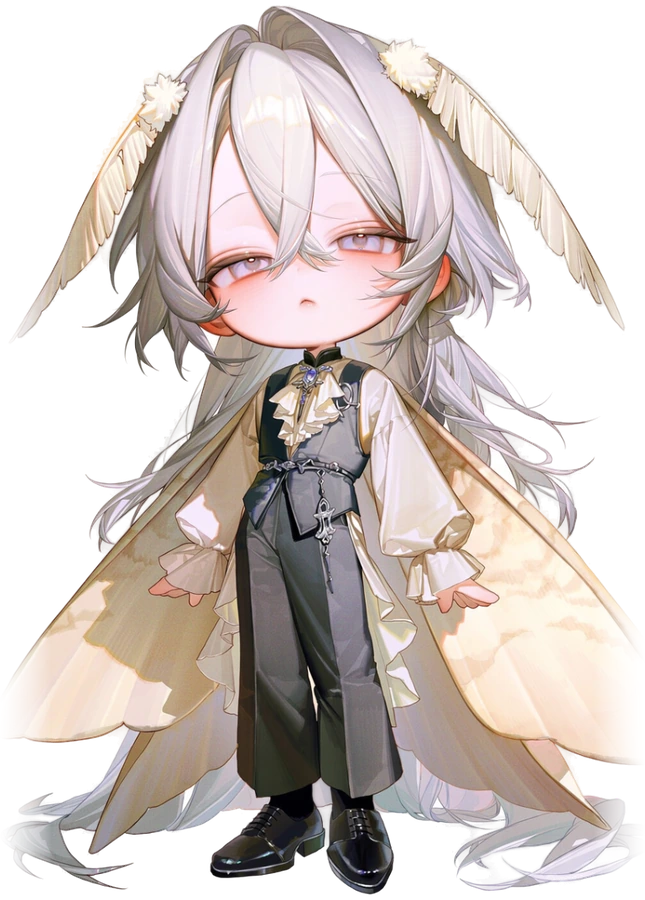
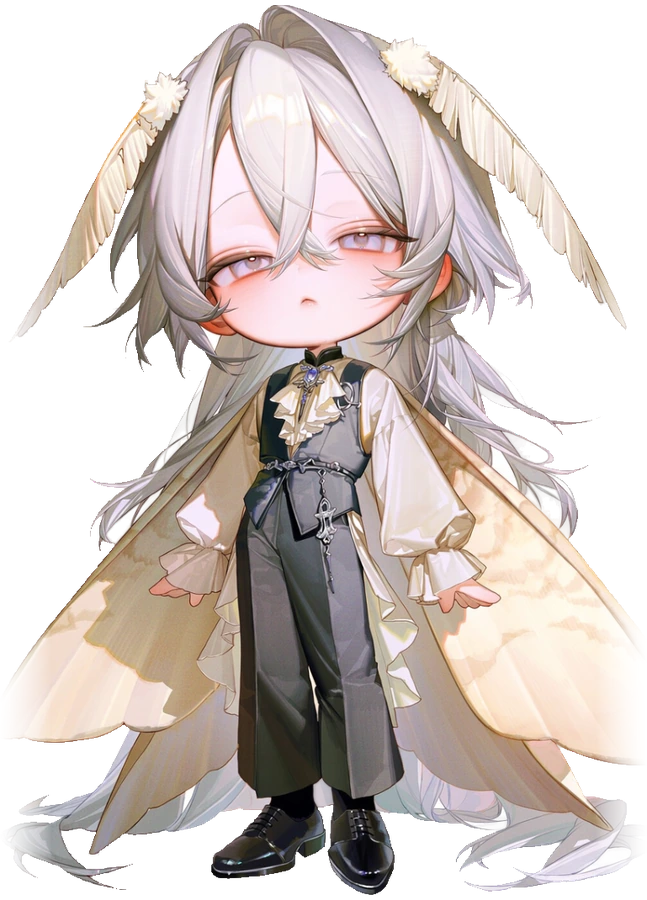
Cleaner chibi cutouts (bg pockets, floor haze, fringe) and replace Morel chibi
- chibis-matted: re-export all 23; remove white pockets/floor shadow, defringe, softer source-cut edges
- Morel: new full-body chibi (original kept as chibi-originals/모렐_치비_새버전.png)
- chibi-data: ratios/size for Morel, cache-busting query

Claude-Session: https://claude.ai/code/session_01YYQsjKpVmJi6CVRMp1nxBQ

diff --git a/js/world/chibi-data.js b/js/world/chibi-data.js
@@ -5,27 +5,27 @@
 //   mobileX / mobileGround / mobileHeight : 모바일 값
 //   foot    : 그림 맨 아래에서 발바닥까지의 높이(%)       shadow : 발밑 그림자 너비(%)
 export const chibiResidents = {
-  "edelin": {"src": "./assets/characters/chibis-matted/edelin.webp", "ratio": 0.712, "x": 66, "ground": 80, "height": 46, "mobileX": 58, "mobileGround": 82, "mobileHeight": 36, "foot": 3, "shadow": 56},
-  "rowen": {"src": "./assets/characters/chibis-matted/rowen.webp", "ratio": 0.594, "x": 62, "ground": 81, "height": 46, "mobileX": 56, "mobileGround": 82, "mobileHeight": 36, "foot": 3, "shadow": 56},
-  "luciel": {"src": "./assets/characters/chibis-matted/luciel.webp", "ratio": 0.757, "x": 66, "ground": 80, "height": 46, "mobileX": 58, "mobileGround": 82, "mobileHeight": 36, "foot": 3, "shadow": 56},
-  "bianca": {"src": "./assets/characters/chibis-matted/bianca.webp", "ratio": 0.562, "x": 66, "ground": 82, "height": 46, "mobileX": 58, "mobileGround": 82, "mobileHeight": 36, "foot": 3, "shadow": 56},
-  "noah": {"src": "./assets/characters/chibis-matted/noah.webp", "ratio": 0.604, "x": 66, "ground": 81, "height": 46, "mobileX": 58, "mobileGround": 82, "mobileHeight": 36, "foot": 3, "shadow": 56},
-  "mariel": {"src": "./assets/characters/chibis-matted/mariel.webp", "ratio": 0.699, "x": 64, "ground": 82, "height": 46, "mobileX": 58, "mobileGround": 82, "mobileHeight": 36, "foot": 3, "shadow": 56},
-  "isabel": {"src": "./assets/characters/chibis-matted/isabel.webp", "ratio": 0.75, "x": 66, "ground": 80, "height": 46, "mobileX": 58, "mobileGround": 82, "mobileHeight": 36, "foot": 3, "shadow": 56},
-  "theo": {"src": "./assets/characters/chibis-matted/theo.webp", "ratio": 0.644, "x": 65, "ground": 81, "height": 46, "mobileX": 58, "mobileGround": 82, "mobileHeight": 36, "foot": 3, "shadow": 56},
-  "adela": {"src": "./assets/characters/chibis-matted/adela.webp", "ratio": 0.612, "x": 65, "ground": 79, "height": 46, "mobileX": 58, "mobileGround": 82, "mobileHeight": 36, "foot": 3, "shadow": 56},
-  "lillian": {"src": "./assets/characters/chibis-matted/lillian.webp", "ratio": 0.587, "x": 66, "ground": 80, "height": 46, "mobileX": 58, "mobileGround": 82, "mobileHeight": 36, "foot": 3, "shadow": 56},
-  "edwin": {"src": "./assets/characters/chibis-matted/edwin.webp", "ratio": 0.584, "x": 65, "ground": 81, "height": 46, "mobileX": 58, "mobileGround": 82, "mobileHeight": 36, "foot": 3, "shadow": 56},
-  "cordelia": {"src": "./assets/characters/chibis-matted/cordelia.webp", "ratio": 0.646, "x": 64, "ground": 80, "height": 46, "mobileX": 58, "mobileGround": 82, "mobileHeight": 36, "foot": 3, "shadow": 56},
-  "felix": {"src": "./assets/characters/chibis-matted/felix.webp", "ratio": 0.702, "x": 65, "ground": 81, "height": 46, "mobileX": 58, "mobileGround": 82, "mobileHeight": 36, "foot": 3, "shadow": 56},
-  "sarkan": {"src": "./assets/characters/chibis-matted/sarkan.webp", "ratio": 0.723, "x": 62, "ground": 81, "height": 44, "mobileX": 56, "mobileGround": 82, "mobileHeight": 34, "foot": 2, "shadow": 80},
-  "miel": {"src": "./assets/characters/chibis-matted/miel.webp", "ratio": 0.683, "x": 65, "ground": 80, "height": 44, "mobileX": 58, "mobileGround": 82, "mobileHeight": 34, "foot": 3, "shadow": 62},
-  "serepina": {"src": "./assets/characters/chibis-matted/serepina.webp", "ratio": 0.681, "x": 14, "ground": 78, "height": 36, "mobileX": 27, "mobileGround": 56, "mobileHeight": 26, "foot": 3, "shadow": 66},
-  "arachne": {"src": "./assets/characters/chibis-matted/arachne.webp", "ratio": 0.729, "x": 31, "ground": 84, "height": 38, "mobileX": 73, "mobileGround": 56, "mobileHeight": 26, "foot": 3, "shadow": 70},
-  "neri": {"src": "./assets/characters/chibis-matted/neri.webp", "ratio": 0.841, "x": 49, "ground": 78, "height": 34, "mobileX": 23, "mobileGround": 82, "mobileHeight": 26, "foot": 4, "shadow": 66},
-  "morel": {"src": "./assets/characters/chibis-matted/morel.webp", "ratio": 0.68, "x": 66, "ground": 85, "height": 37, "mobileX": 51, "mobileGround": 82, "mobileHeight": 27, "foot": 3, "shadow": 58},
-  "lepion": {"src": "./assets/characters/chibis-matted/lepion.webp", "ratio": 0.722, "x": 85, "ground": 79, "height": 38, "mobileX": 79, "mobileGround": 82, "mobileHeight": 27, "foot": 5, "shadow": 56},
-  "kylen": {"src": "./assets/characters/chibis-matted/kylen.webp", "ratio": 0.649, "x": 25, "ground": 81, "height": 44, "mobileX": 27, "mobileGround": 58, "mobileHeight": 31, "foot": 3, "shadow": 56},
-  "nepia": {"src": "./assets/characters/chibis-matted/nepia.webp", "ratio": 0.772, "x": 54, "ground": 85, "height": 43, "mobileX": 73, "mobileGround": 58, "mobileHeight": 31, "foot": 4, "shadow": 56},
-  "seira": {"src": "./assets/characters/chibis-matted/seira.webp", "ratio": 0.684, "x": 81, "ground": 80, "height": 42, "mobileX": 50, "mobileGround": 88, "mobileHeight": 30, "foot": 0, "shadow": 70},
+  "edelin": {"src": "./assets/characters/chibis-matted/edelin.webp?v=20261104c", "ratio": 0.713, "x": 66, "ground": 80, "height": 46, "mobileX": 58, "mobileGround": 82, "mobileHeight": 36, "foot": 3, "shadow": 56},
+  "rowen": {"src": "./assets/characters/chibis-matted/rowen.webp?v=20261104c", "ratio": 0.594, "x": 62, "ground": 81, "height": 46, "mobileX": 56, "mobileGround": 82, "mobileHeight": 36, "foot": 3, "shadow": 56},
+  "luciel": {"src": "./assets/characters/chibis-matted/luciel.webp?v=20261104c", "ratio": 0.757, "x": 66, "ground": 80, "height": 46, "mobileX": 58, "mobileGround": 82, "mobileHeight": 36, "foot": 3, "shadow": 56},
+  "bianca": {"src": "./assets/characters/chibis-matted/bianca.webp?v=20261104c", "ratio": 0.57, "x": 66, "ground": 82, "height": 46, "mobileX": 58, "mobileGround": 82, "mobileHeight": 36, "foot": 3, "shadow": 56},
+  "noah": {"src": "./assets/characters/chibis-matted/noah.webp?v=20261104c", "ratio": 0.606, "x": 66, "ground": 81, "height": 46, "mobileX": 58, "mobileGround": 82, "mobileHeight": 36, "foot": 3, "shadow": 56},
+  "mariel": {"src": "./assets/characters/chibis-matted/mariel.webp?v=20261104c", "ratio": 0.698, "x": 64, "ground": 82, "height": 46, "mobileX": 58, "mobileGround": 82, "mobileHeight": 36, "foot": 3, "shadow": 56},
+  "isabel": {"src": "./assets/characters/chibis-matted/isabel.webp?v=20261104c", "ratio": 0.75, "x": 66, "ground": 80, "height": 46, "mobileX": 58, "mobileGround": 82, "mobileHeight": 36, "foot": 3, "shadow": 56},
+  "theo": {"src": "./assets/characters/chibis-matted/theo.webp?v=20261104c", "ratio": 0.641, "x": 65, "ground": 81, "height": 46, "mobileX": 58, "mobileGround": 82, "mobileHeight": 36, "foot": 3, "shadow": 56},
+  "adela": {"src": "./assets/characters/chibis-matted/adela.webp?v=20261104c", "ratio": 0.61, "x": 65, "ground": 79, "height": 46, "mobileX": 58, "mobileGround": 82, "mobileHeight": 36, "foot": 3, "shadow": 56},
+  "lillian": {"src": "./assets/characters/chibis-matted/lillian.webp?v=20261104c", "ratio": 0.584, "x": 66, "ground": 80, "height": 46, "mobileX": 58, "mobileGround": 82, "mobileHeight": 36, "foot": 3, "shadow": 56},
+  "edwin": {"src": "./assets/characters/chibis-matted/edwin.webp?v=20261104c", "ratio": 0.584, "x": 65, "ground": 81, "height": 46, "mobileX": 58, "mobileGround": 82, "mobileHeight": 36, "foot": 3, "shadow": 56},
+  "cordelia": {"src": "./assets/characters/chibis-matted/cordelia.webp?v=20261104c", "ratio": 0.646, "x": 64, "ground": 80, "height": 46, "mobileX": 58, "mobileGround": 82, "mobileHeight": 36, "foot": 3, "shadow": 56},
+  "felix": {"src": "./assets/characters/chibis-matted/felix.webp?v=20261104c", "ratio": 0.702, "x": 65, "ground": 81, "height": 46, "mobileX": 58, "mobileGround": 82, "mobileHeight": 36, "foot": 3, "shadow": 56},
+  "sarkan": {"src": "./assets/characters/chibis-matted/sarkan.webp?v=20261104c", "ratio": 0.723, "x": 62, "ground": 81, "height": 44, "mobileX": 56, "mobileGround": 82, "mobileHeight": 34, "foot": 2, "shadow": 80},
+  "miel": {"src": "./assets/characters/chibis-matted/miel.webp?v=20261104c", "ratio": 0.683, "x": 65, "ground": 80, "height": 44, "mobileX": 58, "mobileGround": 82, "mobileHeight": 34, "foot": 3, "shadow": 62},
+  "serepina": {"src": "./assets/characters/chibis-matted/serepina.webp?v=20261104c", "ratio": 0.672, "x": 14, "ground": 78, "height": 36, "mobileX": 27, "mobileGround": 56, "mobileHeight": 26, "foot": 3, "shadow": 66},
+  "arachne": {"src": "./assets/characters/chibis-matted/arachne.webp?v=20261104c", "ratio": 0.724, "x": 31, "ground": 84, "height": 38, "mobileX": 73, "mobileGround": 56, "mobileHeight": 26, "foot": 3, "shadow": 70},
+  "neri": {"src": "./assets/characters/chibis-matted/neri.webp?v=20261104c", "ratio": 0.834, "x": 49, "ground": 78, "height": 34, "mobileX": 23, "mobileGround": 82, "mobileHeight": 26, "foot": 4, "shadow": 66},
+  "morel": {"src": "./assets/characters/chibis-matted/morel.webp?v=20261104c", "ratio": 0.683, "x": 66, "ground": 85, "height": 40, "mobileX": 51, "mobileGround": 82, "mobileHeight": 29, "foot": 3, "shadow": 52},
+  "lepion": {"src": "./assets/characters/chibis-matted/lepion.webp?v=20261104c", "ratio": 0.719, "x": 85, "ground": 79, "height": 38, "mobileX": 79, "mobileGround": 82, "mobileHeight": 27, "foot": 5, "shadow": 56},
+  "kylen": {"src": "./assets/characters/chibis-matted/kylen.webp?v=20261104c", "ratio": 0.643, "x": 25, "ground": 81, "height": 44, "mobileX": 27, "mobileGround": 58, "mobileHeight": 31, "foot": 3, "shadow": 56},
+  "nepia": {"src": "./assets/characters/chibis-matted/nepia.webp?v=20261104c", "ratio": 0.777, "x": 54, "ground": 85, "height": 43, "mobileX": 73, "mobileGround": 58, "mobileHeight": 31, "foot": 4, "shadow": 56},
+  "seira": {"src": "./assets/characters/chibis-matted/seira.webp?v=20261104c", "ratio": 0.68, "x": 81, "ground": 80, "height": 42, "mobileX": 50, "mobileGround": 88, "mobileHeight": 30, "foot": 0, "shadow": 70},
 };

diff --git a/tools/chibi-matting/post.py b/tools/chibi-matting/post.py
@@ -1,12 +1,32 @@
 import numpy as np,cv2,glob,os
 from PIL import Image
 os.makedirs('matted2',exist_ok=True)
+from matte import IDS
+DARKBG={'neri','luciel'}
+FLOOR2={'nepia':.86,'serepina':.9,'arachne':.93,'isabel':.93,'edelin':.93,'lillian':.93}
+POCKET={'seira'}
 FLOOR={'serepina':.86,'nepia':.84,'arachne':.88,'isabel':.9,'lillian':.9,'bianca':.9,'cordelia':.9,'felix':.93,'theo':.9,'edwin':.9,'kylen':.9,'adela':.9}
 STRICT={'serepina','seira','nepia','arachne','lepion','cordelia','isabel'}
 for f in sorted(glob.glob('matted/*.png')):
     id=os.path.basename(f)[:-4]
     a=np.array(Image.open(f)).astype(np.float64)/255
-    rgb,al=a[:,:,:3],a[:,:,3]
+    kr=[k for k,v in IDS.items() if v==id][0]
+    o=np.array(Image.open(f'src/{kr}_치비.png').convert('RGB')).astype(np.float64)/255
+    # 원본 테두리 색을 배경색으로 보고, 가장자리와 이어진 배경 덩어리(머리카락 사이 빈틈 포함)를 찾는다
+    border=np.concatenate([o[0],o[-1],o[:,0],o[:,-1]]); bgc=np.median(border,axis=0)
+    near=(np.abs(o-bgc).max(axis=2)<(0.03 if id not in DARKBG else 0.0))
+    nl,lab=cv2.connectedComponents(near.astype(np.uint8),connectivity=4)
+    touch=set(np.unique(np.concatenate([lab[0],lab[-1],lab[:,0],lab[:,-1]])))-{0}
+    bgmask=np.isin(lab,list(touch))
+    if id in POCKET:
+        # 머리카락에 둘러싸여 가장자리와 이어지지 않은 큰 흰 빈틈도 배경으로 본다(순백·넓은 덩어리만)
+        pure=(o.min(axis=2)>0.985)
+        n2,lab2,st,_=cv2.connectedComponentsWithStats(pure.astype(np.uint8),connectivity=4)
+        for k in range(1,n2):
+            if st[k,cv2.CC_STAT_AREA]>700: bgmask|=(lab2==k)
+    bgmask=cv2.dilate(bgmask.astype(np.uint8),np.ones((3,3),np.uint8))>0
+    rgb,al=a[:,:,:3],a[:,:,3].copy()
+    al[bgmask]=0
     core=cv2.erode((al>.97).astype(np.uint8),np.ones((9,9),np.uint8))>0   # 몸 안쪽
     dist=cv2.distanceTransform((~core).astype(np.uint8),cv2.DIST_L2,5)
     lum=rgb.min(axis=2)
@@ -30,6 +50,12 @@ for f in sorted(glob.glob('matted/*.png')):
     edge=np.clip(1-new,0,1)*np.clip((dist-0.5)/3,0,1)*(dist<26)
     pull=(0.55 if id in STRICT else 0.35)*white*edge
     rgb=rgb*(1-pull[:,:,None])+inner*pull[:,:,None]
+    if id in FLOOR2:
+        H=al.shape[0]; yy=np.arange(H)[:,None]/H
+        sat=(rgb.max(axis=2)-rgb.min(axis=2))
+        sh=(yy>FLOOR2[id])&(dist>5)&(lum>.55)&(sat<.30)
+        sh=cv2.dilate(sh.astype(np.uint8),np.ones((3,3),np.uint8))>0
+        new=np.where(sh,0,new)
     out=np.dstack([rgb,new]); out=(out*255+.5).astype(np.uint8)
     # 알파 0인 픽셀의 색은 가까운 색으로 확장(리사이즈 때 흰 테두리 방지)
     Image.fromarray(out,'RGBA').save(f'matted2/{id}.png')

diff --git a/tools/chibi-matting/export.py b/tools/chibi-matting/export.py
@@ -9,13 +9,15 @@ for f in sorted(glob.glob('matted2/*.png')):
     al=a[:,:,3]/255; H,W=al.shape
     cut=[]
     F=64
+    BIG={'serepina':150}.get(id,F)
     for side,line in (('L',al[:,0]),('R',al[:,-1]),('T',al[0,:]),('B',al[-1,:])):
         if (line>.16).sum()>30: cut.append(side)
     ramp=np.clip(np.arange(F)/F,0,1)**1.6
     for s in cut:
-        if s=='L': al[:,:F]*=ramp[None,:]
-        if s=='R': al[:,-F:]*=ramp[::-1][None,:]
-        if s=='T': al[:F,:]*=ramp[:,None]
+        rb=np.clip(np.arange(BIG)/BIG,0,1)**1.6
+        if s=='L': al[:,:BIG]*=rb[None,:]
+        if s=='R': al[:,-BIG:]*=rb[::-1][None,:]
+        if s=='T': al[:BIG,:]*=rb[:,None]
         if s=='B': al[-F:,:]*=ramp[::-1][:,None]
     if len(cut)>=2 and ('T' in cut or 'B' in cut) and ('L' in cut or 'R' in cut):
         R=0.30*min(W,H); yy,xx=np.mgrid[0:H,0:W].astype(np.float64)

diff --git a/tools/chibi-matting/matte.py b/tools/chibi-matting/matte.py
@@ -1,7 +1,7 @@
 import sys,os,glob,time,numpy as np,cv2
 from PIL import Image
 from pymatting import estimate_alpha_cf, estimate_foreground_ml
-ORIG='/home/claude/x-x77/mistvale/assets/characters/chibi-originals/'
+ORIG='/home/claude/work/src/'
 IDS={'네리':'neri','네피아':'nepia','노아':'noah','레피온':'lepion','로웬':'rowen','루시엘':'luciel','릴리안':'lillian','마리엘':'mariel','모렐':'morel','미엘':'miel','비앙카':'bianca','사르칸':'sarkan','세레피나':'serepina','세이라':'seira','아델라':'adela','아라크네':'arachne','에델린':'edelin','에드윈':'edwin','이사벨':'isabel','카일런':'kylen','코델리아':'cordelia','테오':'theo','페릭스':'felix'}
 NARROW={'neri','luciel','miel','sarkan'}   # 배경이 흰색이 아닌 그림: 바깥 확장 폭을 줄여 배경을 줍지 않음
 def run(kr):

diff --git a/tools/chibi-matting/seg.py b/tools/chibi-matting/seg.py
@@ -2,7 +2,7 @@ import glob,os,sys,numpy as np
 from PIL import Image
 from rembg import new_session, remove
 S=new_session('isnet-anime')
-for f in sorted(glob.glob('/home/claude/x-x77/mistvale/assets/characters/chibi-originals/*.png')):
+for f in sorted(glob.glob('/home/claude/work/src/*.png')):
     n=os.path.basename(f)[:-7]
     im=Image.open(f).convert('RGB')
     m=remove(im,session=S,only_mask=True,post_process_mask=False)

diff --git a/tools/chibi-matting/README.md b/tools/chibi-matting/README.md
@@ -8,3 +8,7 @@
 4. `export.py`— 원본에서 잘려 있던 변은 부드럽게 흐리고, 여백을 잘라 900px WebP 로 저장 + `matte-report.json`
 
 실행 경로는 작업용 폴더(`raw/`, `matted/`, `matted2/`) 기준이며 필요하면 경로를 맞춰 쓰세요.
+
+## 2차 개선 (2026-11-04)
+- `post.py`: 가장자리와 이어진 배경색 덩어리 제거, 머리카락에 둘러싸인 흰 빈틈 제거(세이라), 바닥 그림자·안개 제거(네피아·세레피나 등), 경계 색 오염 보정
+- 모렐은 새로 받은 치비(`chibi-originals/모렐_치비_새버전.png`)로 교체했습니다. 이전 모렐 원본도 그대로 있습니다.
